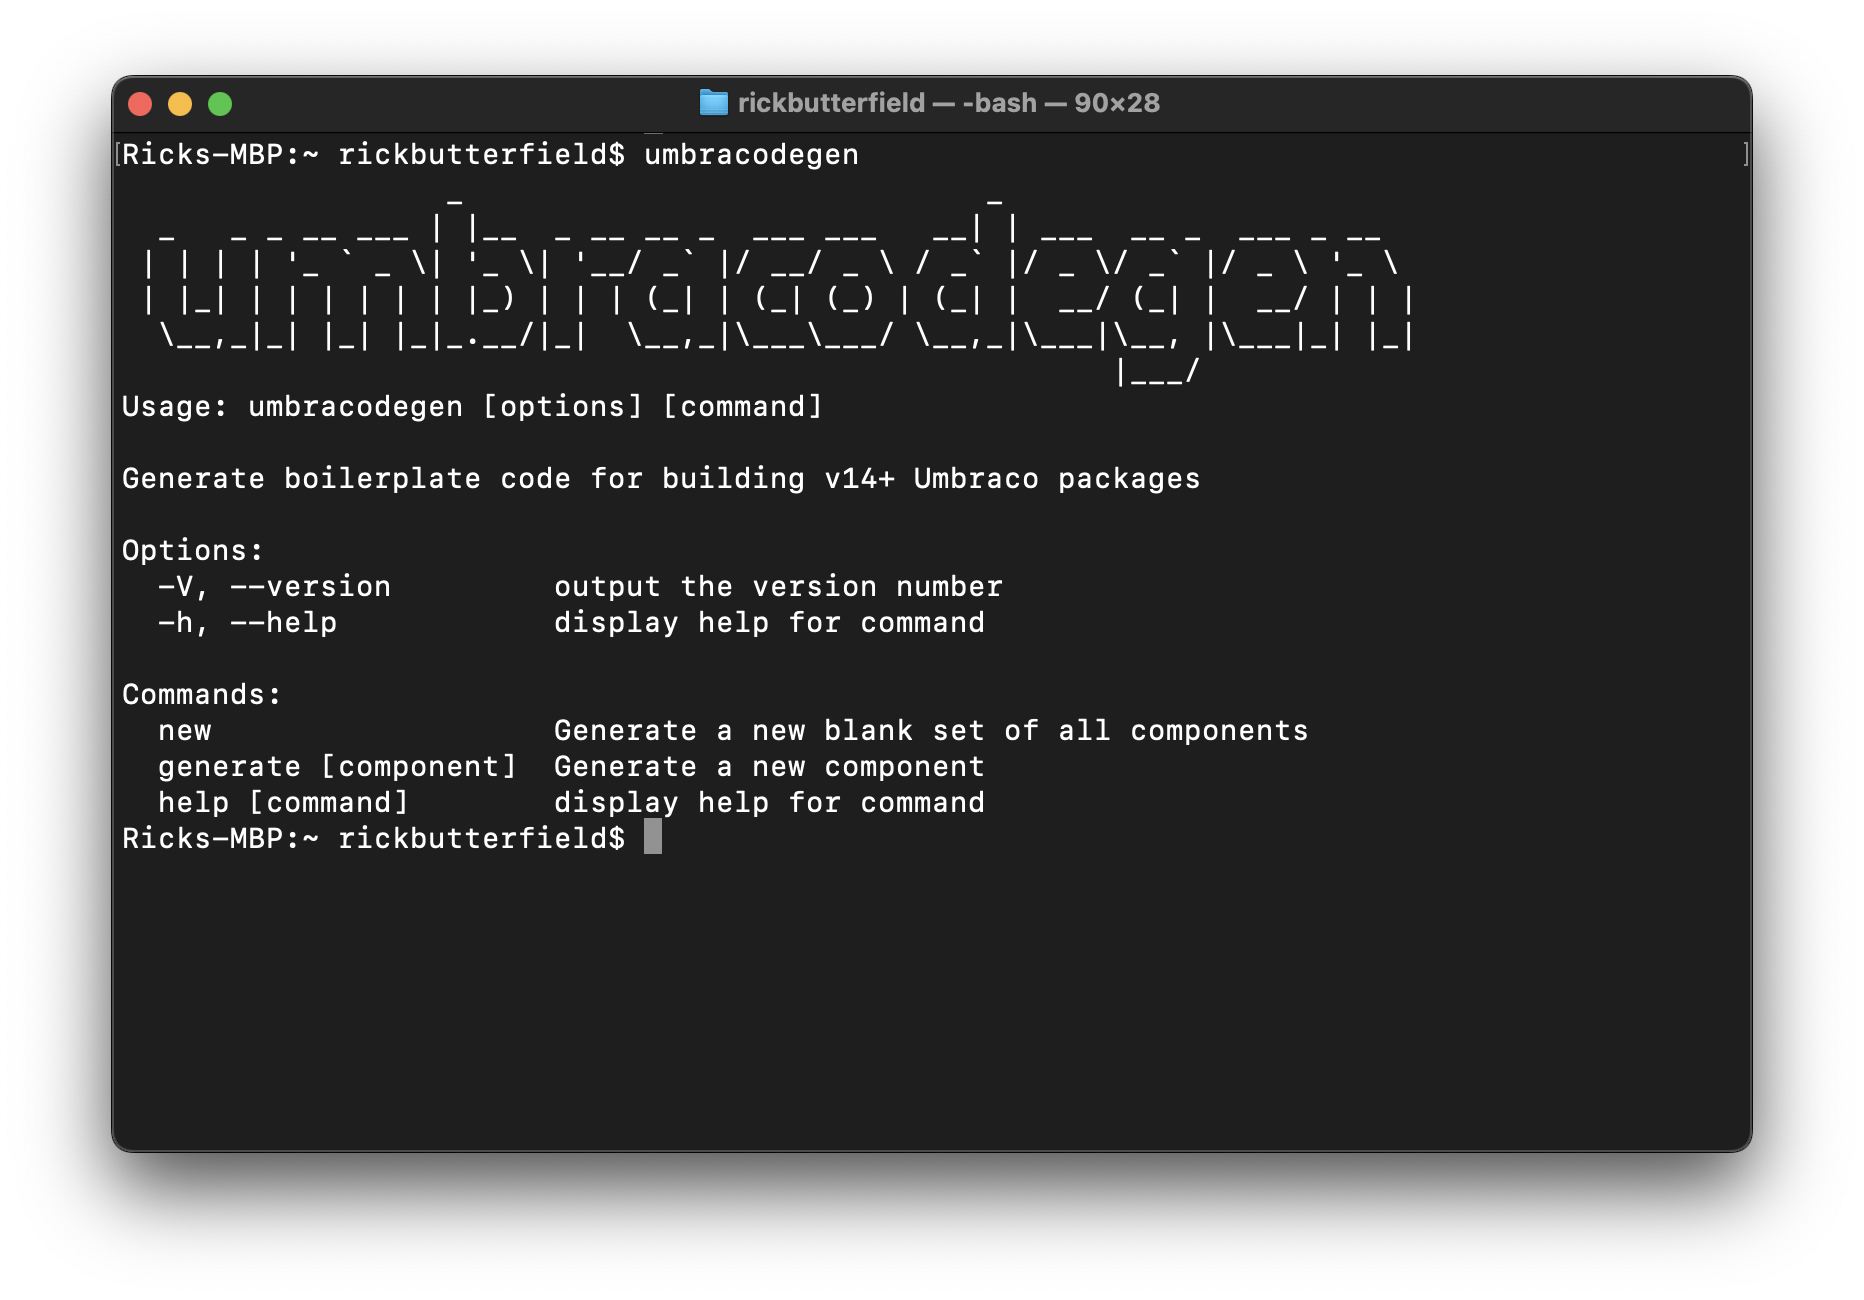
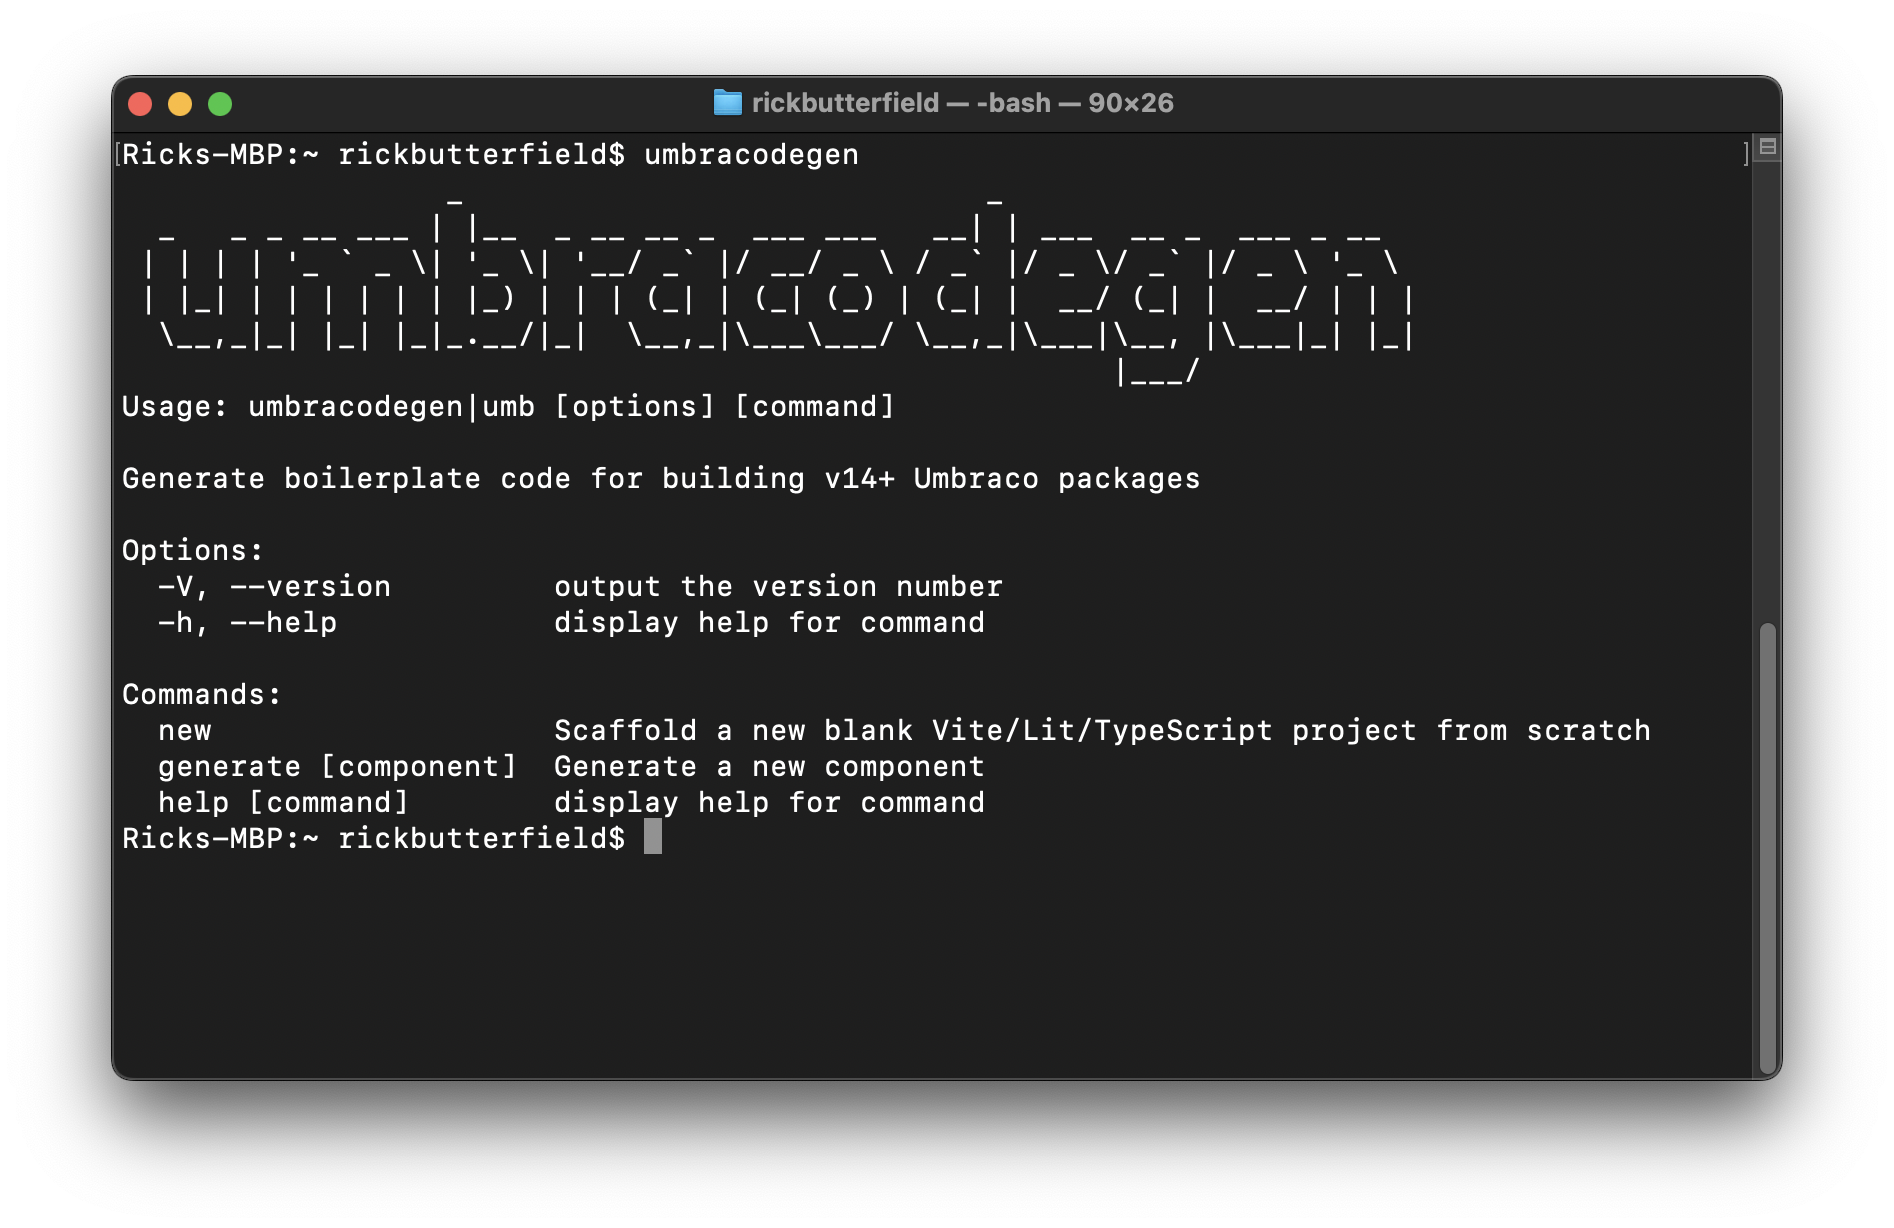
Update readme screenshot

diff --git a/src/index.ts b/src/index.ts
@@ -14,9 +14,6 @@ import { Answers } from 'inquirer';
 import './helpers.js';
 import { createViteProject, runNpmInstall, runBackofficeInstall } from './functions.js';
 
-const packageJson = JSON.parse(fs.readFileSync('package.json', 'utf8'));
-const version = packageJson.version;
-
 const __dirname = path.dirname(fileURLToPath(import.meta.url));
 
 const plopfilePath = path.resolve(__dirname, 'plopfile.js');
@@ -36,7 +33,7 @@ figlet('umbracodegen', (err, data) => {
 
   program
     .name("umbracodegen")
-    .version(version)
+    .version("1.0.0-alpha.5")
     .description("Generate boilerplate code for building v14+ Umbraco packages")
     .alias("umb");
 
